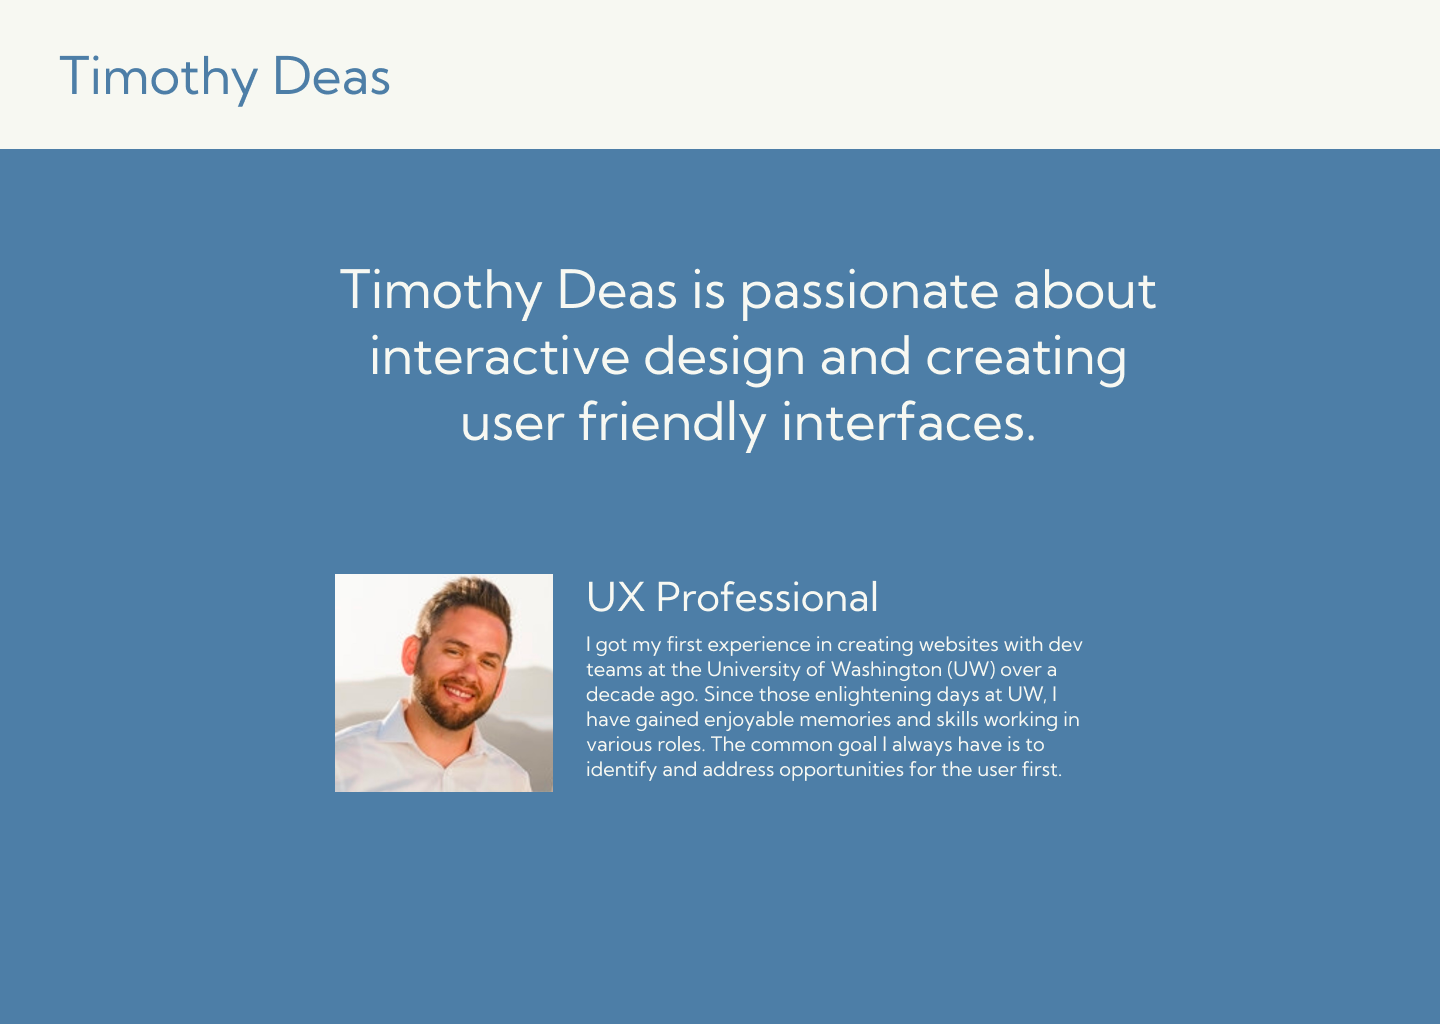
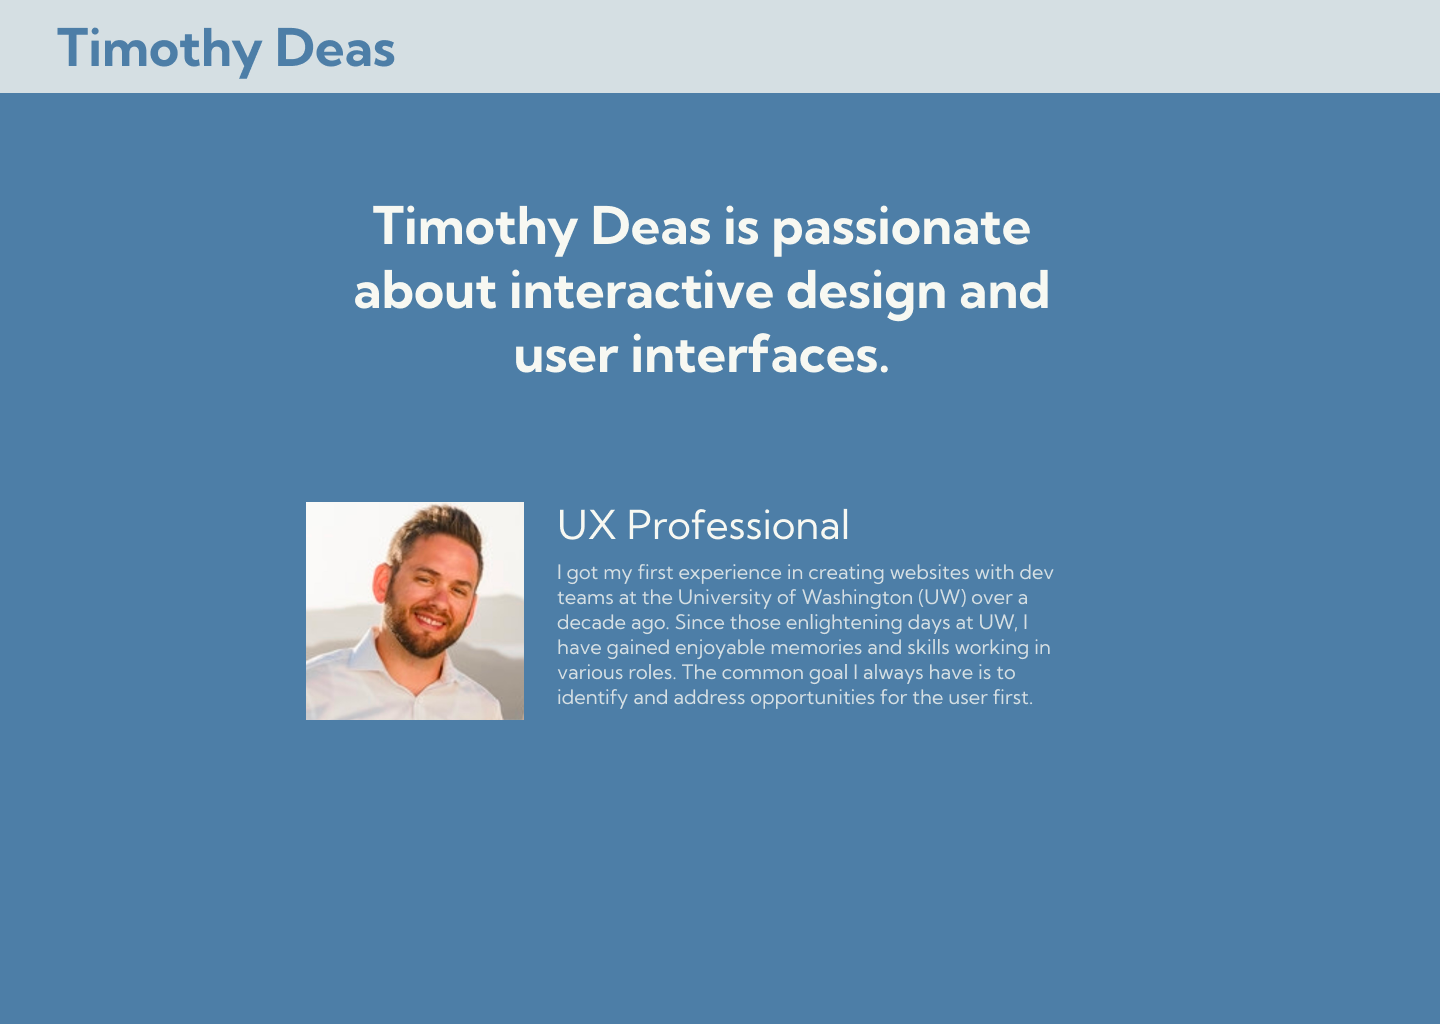
testing final

Changed region(s): [[0.0, 0.0, 1.0, 0.1562], [0.1875, 0.4688, 0.75, 0.7812], [0.2188, 0.1875, 0.8125, 0.4375]]

diff --git a/index.html b/index.html
@@ -11,12 +11,18 @@
     <link rel="stylesheet" href="screen.css">
   </head>
   <body>
-    <header>Timothy Deas</header>
-      <h1>Timothy Deas is passionate about interactive design and creating user interfaces.</h1>
+    <header>
+      <h1 class="header">Timothy Deas</h1>
+    </header>
+      <section>
+        <h1 class="top">Timothy Deas is passionate about interactive design and user interfaces.</h1>
+      </section>
+      <section>
         <div>
           <img src="PortfolioIMG.png" alt="Portfolio Picture">
           <h2>UX Professional</h2>
           <p>I got my first experience in creating websites with dev teams at the University of Washington (UW) over a decade ago. Since those enlightening days at UW, I have gained enjoyable memories and skills working in various roles. The common goal I always have is to identify and address opportunities for the user first.</p>
         </div>
+      </section>
   </body>
 </html>

diff --git a/screen.css b/screen.css
@@ -1,28 +1,32 @@
 
 body {
     background: #4D7EA7; 
-    color: #F7F8F2;
+    color: rgba(247, 248, 242, .80);
     font-family: 'Kumbh Sans', sans-serif;
     
  }
  
- header {
-    background: #F7F8F2;
+ .header {
+    background-color: rgba(247, 248, 242, .80);
     color: #4D7EA7;
     font-size:52pt;
-    font-weight: bold;
     margin-top: -8px;
     margin-left: -8px;
     margin-right: -8px;
     padding: 20px;
  }
 
- h1 {
+ .top {
      text-align: center;
+     color: #F7F8F2;
      width: 950px;
      margin: 0 auto;
      padding: 100px;
      font-size: 52pt;
+ }
+
+ h2 {
+    color: #F7F8F2;
  }
 
  div {
@@ -30,6 +34,7 @@ body {
     font-size: 20px;
     width: 810px;
     height: 218px;
+    padding-bottom: 50px;
  } 
 
  img {
